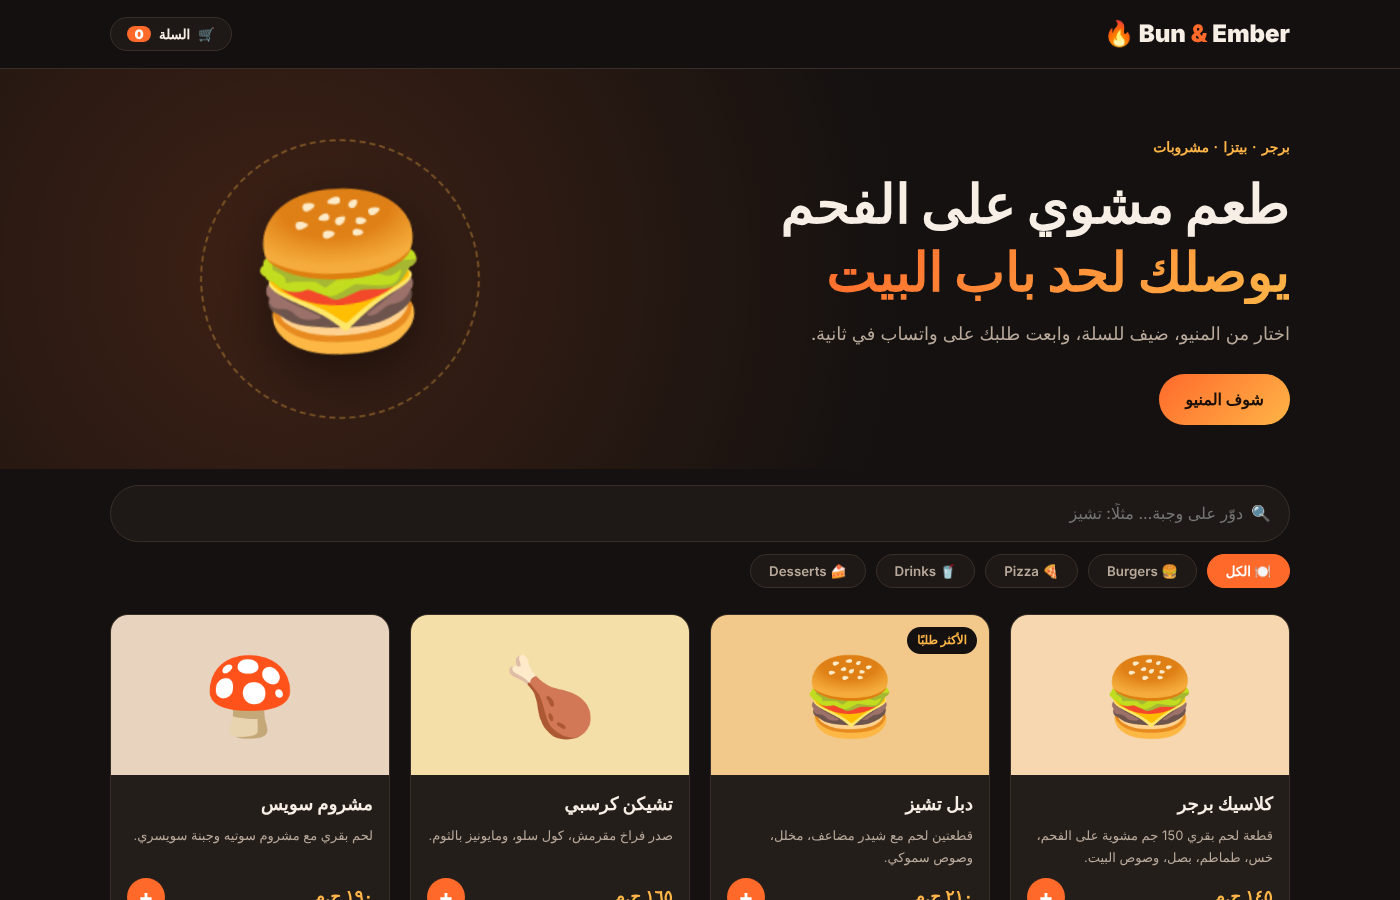
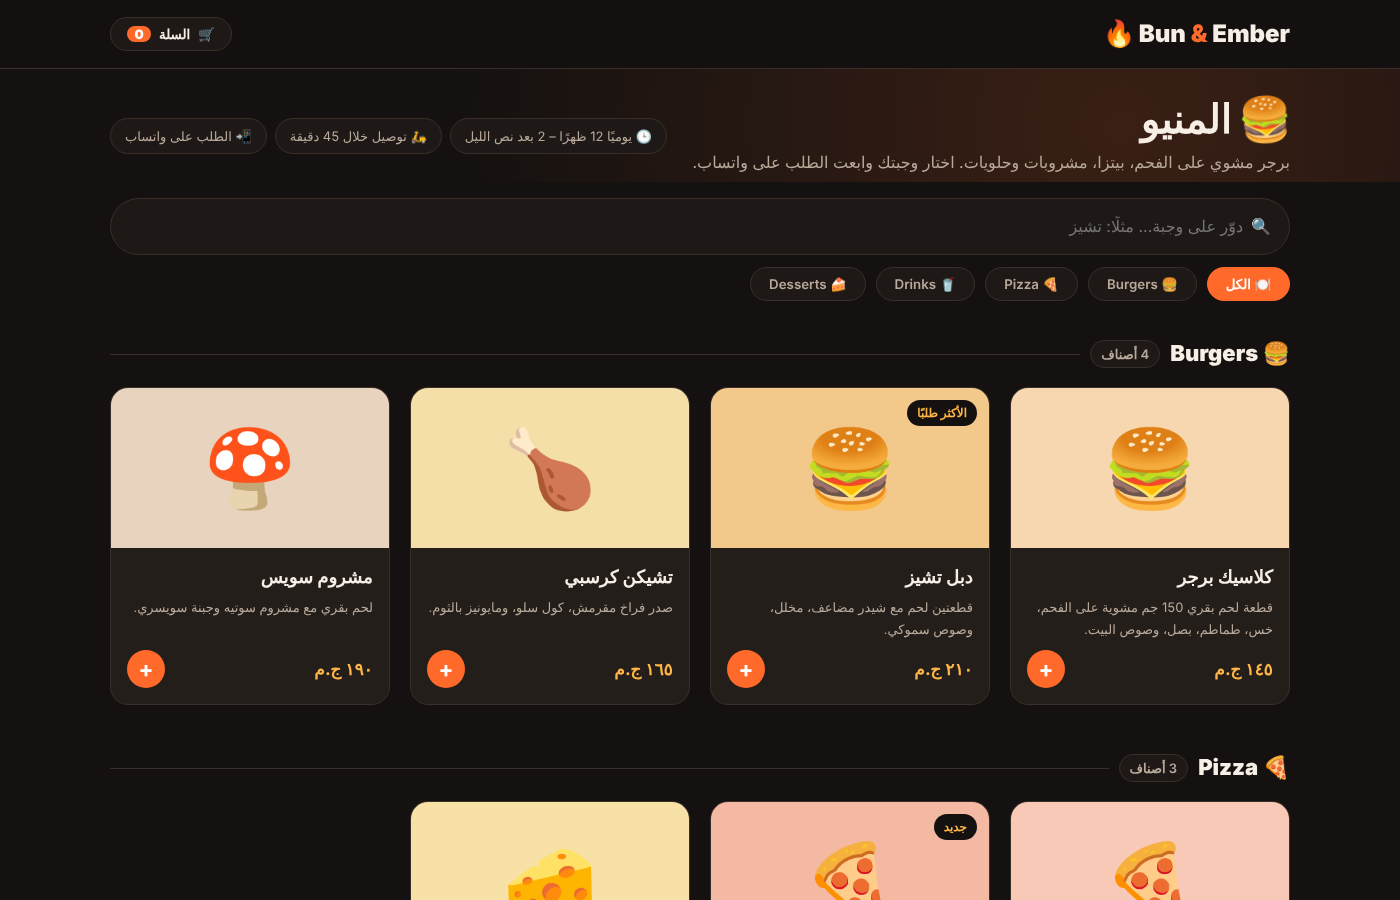
Menu-first layout: compact header and items grouped by category

diff --git a/style.css b/style.css
@@ -20,16 +20,13 @@ button{font-family:inherit;cursor:pointer}
 .cart-btn.bump{animation:bump .4s}
 @keyframes bump{40%{transform:scale(1.12)}}
 
-/* hero */
-.hero{background:radial-gradient(circle at 20% 50%,rgba(255,106,43,.18),transparent 55%);padding:60px 0 40px}
-.hero-in{display:grid;grid-template-columns:1.2fr .8fr;align-items:center;gap:30px}
-.tag{color:var(--gold);font-weight:600;font-size:14px;letter-spacing:1px}
-.hero h1{font-size:clamp(32px,4.6vw,54px);font-weight:900;line-height:1.25;margin:10px 0 14px}
-.hero h1 span{background:linear-gradient(135deg,var(--fire),var(--gold));-webkit-background-clip:text;background-clip:text;color:transparent}
-.hero p{color:var(--muted);margin-bottom:24px;font-size:18px}
-.hero-plate{position:relative;height:300px;display:grid;place-items:center}
-.hero-plate span{font-size:150px;filter:drop-shadow(0 20px 30px rgba(0,0,0,.5));animation:bob 4s ease-in-out infinite}
-.ring{position:absolute;width:280px;height:280px;border-radius:50%;border:2px dashed rgba(255,181,71,.35);animation:spin 30s linear infinite}
+/* hero (compact menu header) */
+.hero{background:radial-gradient(circle at 80% 50%,rgba(255,106,43,.16),transparent 60%);padding:26px 0 6px}
+.hero-in{display:flex;align-items:center;justify-content:space-between;gap:20px;flex-wrap:wrap}
+.hero h1{font-size:clamp(28px,3.6vw,40px);font-weight:900;line-height:1.2;margin-bottom:6px}
+.hero p{color:var(--muted);font-size:16px}
+.info-chips{list-style:none;display:flex;gap:8px;flex-wrap:wrap}
+.info-chips li{background:var(--panel);border:1px solid var(--line);border-radius:40px;padding:6px 14px;font-size:13px;color:var(--muted)}
 @keyframes bob{50%{transform:translateY(-14px) rotate(-4deg)}}
 @keyframes spin{to{transform:rotate(360deg)}}
 
@@ -44,7 +41,11 @@ button{font-family:inherit;cursor:pointer}
 .cat.on{background:var(--fire);border-color:var(--fire);color:#fff}
 
 /* grid */
-.grid{display:grid;grid-template-columns:repeat(4,1fr);gap:20px;padding:10px 0 70px}
+.grid{display:grid;grid-template-columns:repeat(4,1fr);gap:20px;padding:6px 0 26px}
+#grid{padding-bottom:50px}
+.sec-title{display:flex;align-items:center;gap:10px;font-size:22px;font-weight:900;margin:18px 0 8px;scroll-margin-top:190px}
+.sec-title small{font-size:13px;font-weight:600;color:var(--muted);background:var(--panel);border:1px solid var(--line);border-radius:20px;padding:2px 10px}
+.sec-title::after{content:"";flex:1;height:1px;background:var(--line)}
 .card{background:var(--card);border:1px solid var(--line);border-radius:var(--r);overflow:hidden;cursor:pointer;opacity:0;transform:translateY(16px);animation:in .5s forwards;transition:transform .25s,border-color .25s,box-shadow .25s}
 @keyframes in{to{opacity:1;transform:none}}
 .card:hover{transform:translateY(-6px);border-color:var(--fire);box-shadow:0 14px 30px rgba(0,0,0,.35)}
@@ -113,8 +114,7 @@ footer{border-top:1px solid var(--line);padding:24px 0;color:var(--muted);font-s
 @media (max-width:1000px){.grid{grid-template-columns:repeat(3,1fr)}}
 @media (max-width:760px){
   .grid{grid-template-columns:repeat(2,1fr);gap:12px}
-  .hero-in{grid-template-columns:1fr}
-  .hero-plate{height:200px}.hero-plate span{font-size:110px}.ring{width:190px;height:190px}
+  .hero{padding-top:18px}.hero p{font-size:14px}.info-chips li{font-size:12px;padding:5px 11px}
   .cart-btn span{display:none}
   .info p{display:none}
   .img{height:120px}.img span{font-size:58px}

diff --git a/app.js b/app.js
@@ -17,14 +17,8 @@ function renderCats() {
   ).join("");
 }
 
-function renderGrid() {
-  const q = state.q.trim().toLowerCase();
-  const list = PRODUCTS.filter(p =>
-    (state.cat === "all" || p.cat === state.cat) &&
-    (!q || p.name.toLowerCase().includes(q) || p.desc.toLowerCase().includes(q))
-  );
-  $("#empty").hidden = list.length > 0;
-  $("#grid").innerHTML = list.map((p, i) => `
+function cardHTML(p, i) {
+  return `
     <article class="card" style="animation-delay:${i * 40}ms" data-id="${p.id}">
       <div class="img" style="background:${p.color}"><span>${p.icon}</span>${p.tag ? `<em>${p.tag}</em>` : ""}</div>
       <div class="info">
@@ -35,7 +29,26 @@ function renderGrid() {
           <button class="add" data-add="${p.id}" aria-label="أضف ${p.name}">+</button>
         </div>
       </div>
-    </article>`).join("");
+    </article>`;
+}
+
+function renderGrid() {
+  const q = state.q.trim().toLowerCase();
+  const list = PRODUCTS.filter(p =>
+    (state.cat === "all" || p.cat === state.cat) &&
+    (!q || p.name.toLowerCase().includes(q) || p.desc.toLowerCase().includes(q))
+  );
+  $("#empty").hidden = list.length > 0;
+  // Menu layout: one titled section per category (Burgers, Pizza, Drinks, Desserts)
+  let i = 0;
+  $("#grid").innerHTML = CATEGORIES.filter(c => c.id !== "all").map(c => {
+    const items = list.filter(p => p.cat === c.id);
+    if (!items.length) return "";
+    return `<section class="menu-sec" id="sec-${c.id}">
+      <h2 class="sec-title">${c.icon} ${c.name} <small>${items.length} أصناف</small></h2>
+      <div class="grid">${items.map(p => cardHTML(p, i++)).join("")}</div>
+    </section>`;
+  }).join("");
 }
 
 /* ---------- product modal ---------- */

diff --git a/index.html b/index.html
@@ -23,12 +23,14 @@
 <section class="hero">
   <div class="wrap hero-in">
     <div class="hero-text reveal">
-      <span class="tag">برجر · بيتزا · مشروبات</span>
-      <h1>طعم مشوي على الفحم<br><span>يوصلك لحد باب البيت</span></h1>
-      <p>اختار من المنيو، ضيف للسلة، وابعت طلبك على واتساب في ثانية.</p>
-      <a href="#menu" class="btn">شوف المنيو</a>
+      <h1><span class="flame">🍔</span> المنيو</h1>
+      <p>برجر مشوي على الفحم، بيتزا، مشروبات وحلويات. اختار وجبتك وابعت الطلب على واتساب.</p>
     </div>
-    <div class="hero-plate reveal" aria-hidden="true"><div class="ring"></div><span>🍔</span></div>
+    <ul class="info-chips reveal">
+      <li>🕒 يوميًا 12 ظهرًا – 2 بعد نص الليل</li>
+      <li>🛵 توصيل خلال 45 دقيقة</li>
+      <li>📲 الطلب على واتساب</li>
+    </ul>
   </div>
 </section>
 
@@ -41,7 +43,7 @@
     <div class="cats" id="cats" role="tablist"></div>
   </div>
   <p class="empty" id="empty" hidden>مفيش نتائج مطابقة. جرّب كلمة تانية.</p>
-  <div class="grid" id="grid"></div>
+  <div id="grid"></div>
 </main>
 
 <!-- product modal -->
